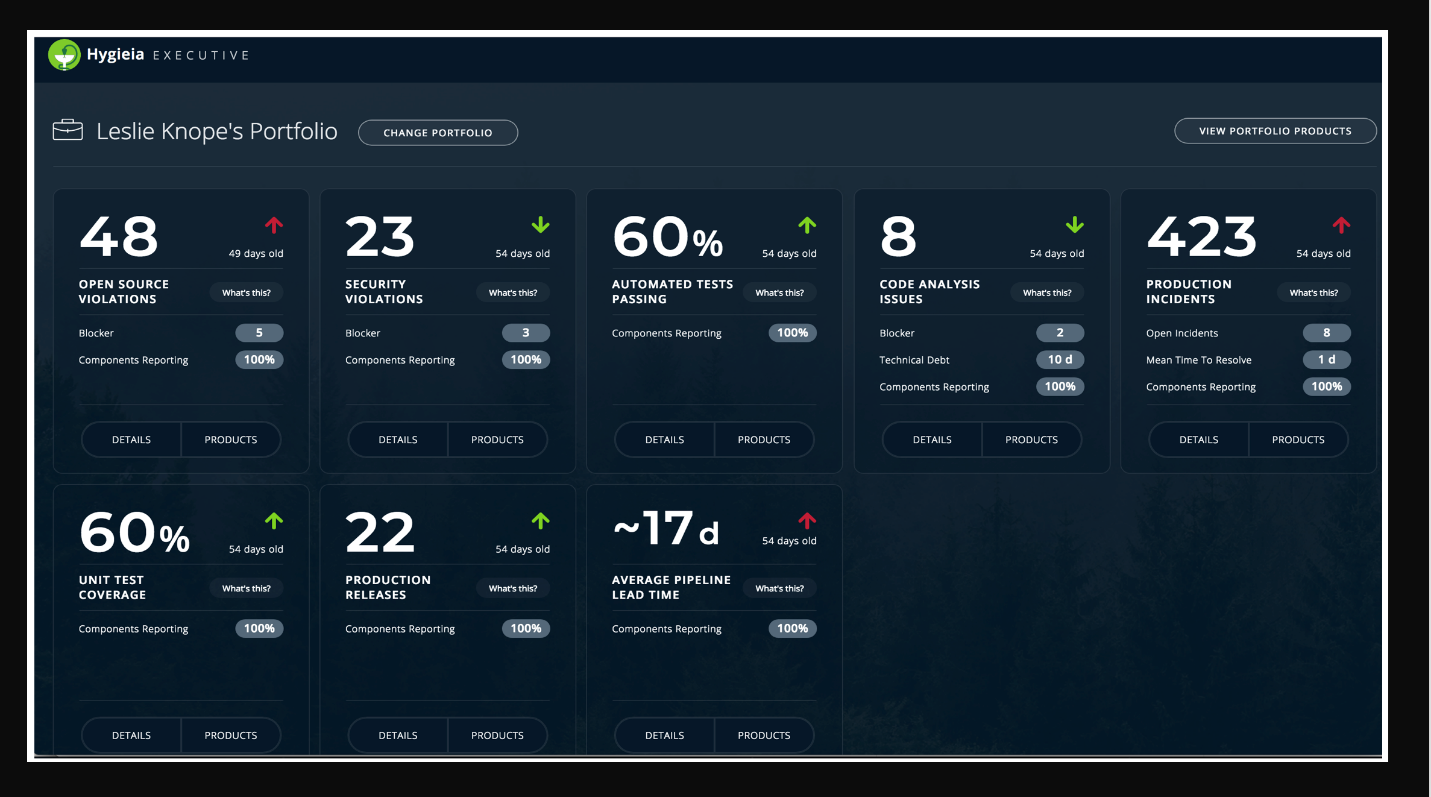
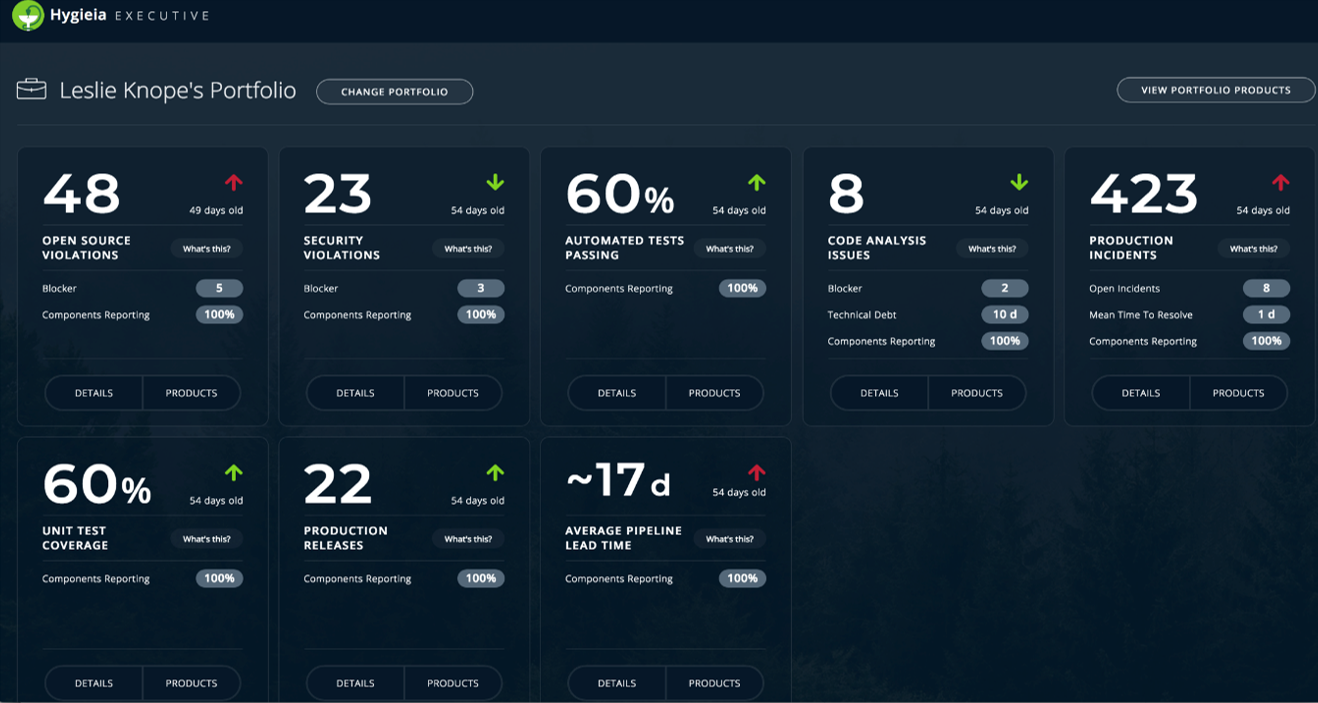
Modified screenshots; added architecture and contribution docs

diff --git a/pages/hygieia/documentation.md b/pages/hygieia/documentation.md
@@ -1,0 +1,67 @@
+---
+title: Create and Edit the Documentation
+tags:
+keywords:
+toc: true
+summary: 
+sidebar: hygieia_sidebar
+permalink: documentation.html
+---
+
+To create and edit markdown files for the documentation of **Hygieia Executive Dashboard**, follow the instructions given below:
+
+
+*	**Step 1: Clone the gh-pages branch from your fork**
+
+    To make updates to documentation locally, clone the gh-pages branch from your fork:
+	
+	```bash
+	git clone -b gh-pages <https://github.com/<your-repo>/ExecDashboard.git>
+	```
+	
+*	**Step 2: Create and Edit Markdown files**
+    
+    - *Location Details*
+	
+	  All markdown files are saved in the **Pages** folder in the `gh-pages` branch. Create and edit all markdown files in this folder.
+	
+	  All screenshots are saved at `media/images/`. You can add and save all screenshots to this folder.
+	
+	- *Frontmatter for Pages*
+	
+	  Make sure each page has frontmatter at the top as follows:
+	  
+	  ```properties
+	  ---
+      title: Create and Edit the Documentation
+      toc: true
+      summary: Contribute to Hygieia Executive documentation by creating new content or editing the existing documentation.
+      sidebar: hygieia_sidebar
+      permalink: documentation.html
+      ---
+	  ```
+	  
+	For a tutorial on GitHub-flavored markdown, see the [GitHub Guide]( https://guides.github.com/features/mastering-markdown/).
+
+*	**Step 3: Make Changes to the Table of Contents**	
+	
+    To link new files to the table of contents, edit the YAML files available in the `/_data/sidebars` folder in `gh-pages` branch. 
+	
+    To make changes to the top-navigation in the web pages, edit the `topnav.yml` file in the `/_data` folder.
+
+*	**Step 4: Commit Changes**	
+    
+	Once you finish making changes to the markdown files, commit your changes.
+	In the command line or terminal, execute the following steps:
+	
+	```bash
+    git add <your file name>
+    git commit -m “Initial commit”
+    git push origin gh-pages
+	```
+	
+*	**Step 5: Create a Pull Request**	
+
+    To propose your changes to the documentation, create and submit a pull request. For information on Pull Requests, see the [GitHub documentation]( https://help.github.com/articles/creating-a-pull-request/#creating-the-pull-request).
+
+**Note**: For information about this theme and to build the site locally, follow the instructions [here](http://idratherbewriting.com/documentation-theme-jekyll/index.html).

diff --git a/pages/hygieia/architecture.md b/pages/hygieia/architecture.md
@@ -1,0 +1,23 @@
+---
+title: A Diagram of Hygieia Executive
+tags:
+type:
+toc: true
+keywords:
+summary:
+sidebar: hygieia_sidebar
+permalink: architecture.html
+---
+
+The following diagram provides a high-level view of Hygieia Executive:
+
+![Image](https://hygieia.github.io/ExecDashboard/media/images/ExecArchitecture.png)
+
+Each layer in the architecture is explained as follows (starting from the Database Layer):
+
+|Components | Description |
+|-----------|-------------|
+| Database Layer | The database layer, which is used for storage and retrieval of data, consists of the **Read** and **Write Databases**. Each collector, based on the Metric Type, reads data from the Read Database, generates metrics, and writes the metrics into the Write Database. |
+| Collectors’ Layer | The Collectors’ Layer consists of the Portfolio and Metrics’ Collectors. A collector pulls the raw data from the Read Database, and then runs an aggregation logic to generate **Metrics**. Metrics contain **Time Series** and **Summary**. The **Time Series** denotes the events that occur over the last 90 days, and **Summary** is an aggregation of those 90 days. These Metrics are generated for each Portfolio at the Component Level and then rolled-up into the Product Level (**Portfolio** <- **Product(s)** <-**Component(s)**) |
+| API Layer | The API Layer provides an interface to display the Metrics on the UI. |
+| UI Layer | The UI layer (User Interface) is Hygieia Executive’s front-end and contains all the Graphical User Interface (GUI) elements for users to view. It is here where users are also able to view the dashboard. The UI Layer pulls the data using the API mainly based on the Name, Line of Business, Product Name, Metric Type, and Product Name (where necessary) and projects it on the UI. |

diff --git a/pages/hygieia/EXECUI_Setup.md b/pages/hygieia/EXECUI_Setup.md
@@ -1,5 +1,5 @@
 ---
-title: The Hygieia Executive Dashboard UI
+title: The Hygieia Executive Dashboard UI Layer
 tags:
 keywords:
 summary:
@@ -14,6 +14,8 @@ The Hygieia dashboard requires installation of:
 - nvm
 - Node JS
 - npm
+
+To set up the UI layer, execute the following steps:
 
 *	**Step 1: Install nvm**
 

diff --git a/pages/hygieia/EXECAPI_Setup.md b/pages/hygieia/EXECAPI_Setup.md
@@ -1,5 +1,5 @@
 ---
-title: The Hygieia Executive Dashboard API
+title: The Hygieia Executive Dashboard API Layer
 tags:
 keywords:
 summary:
